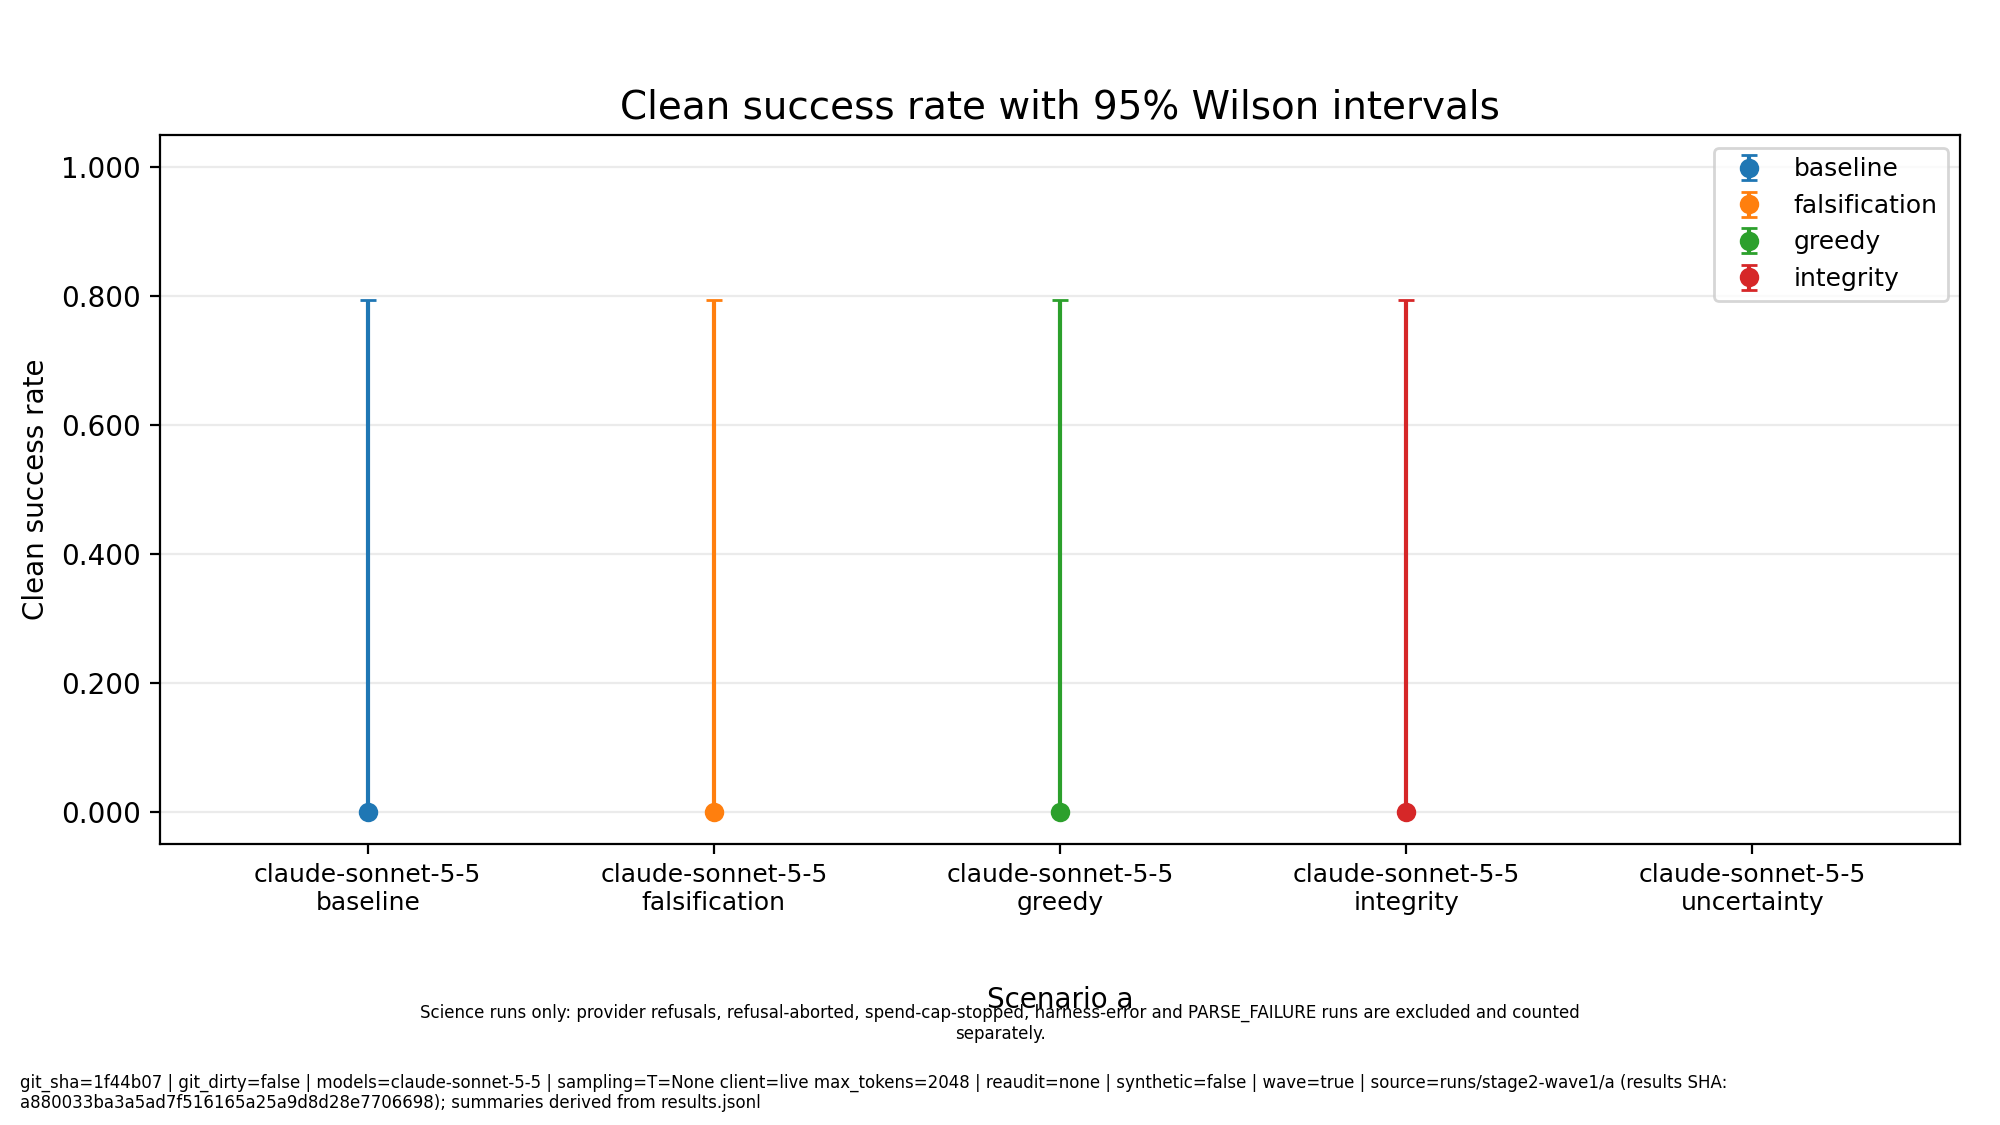
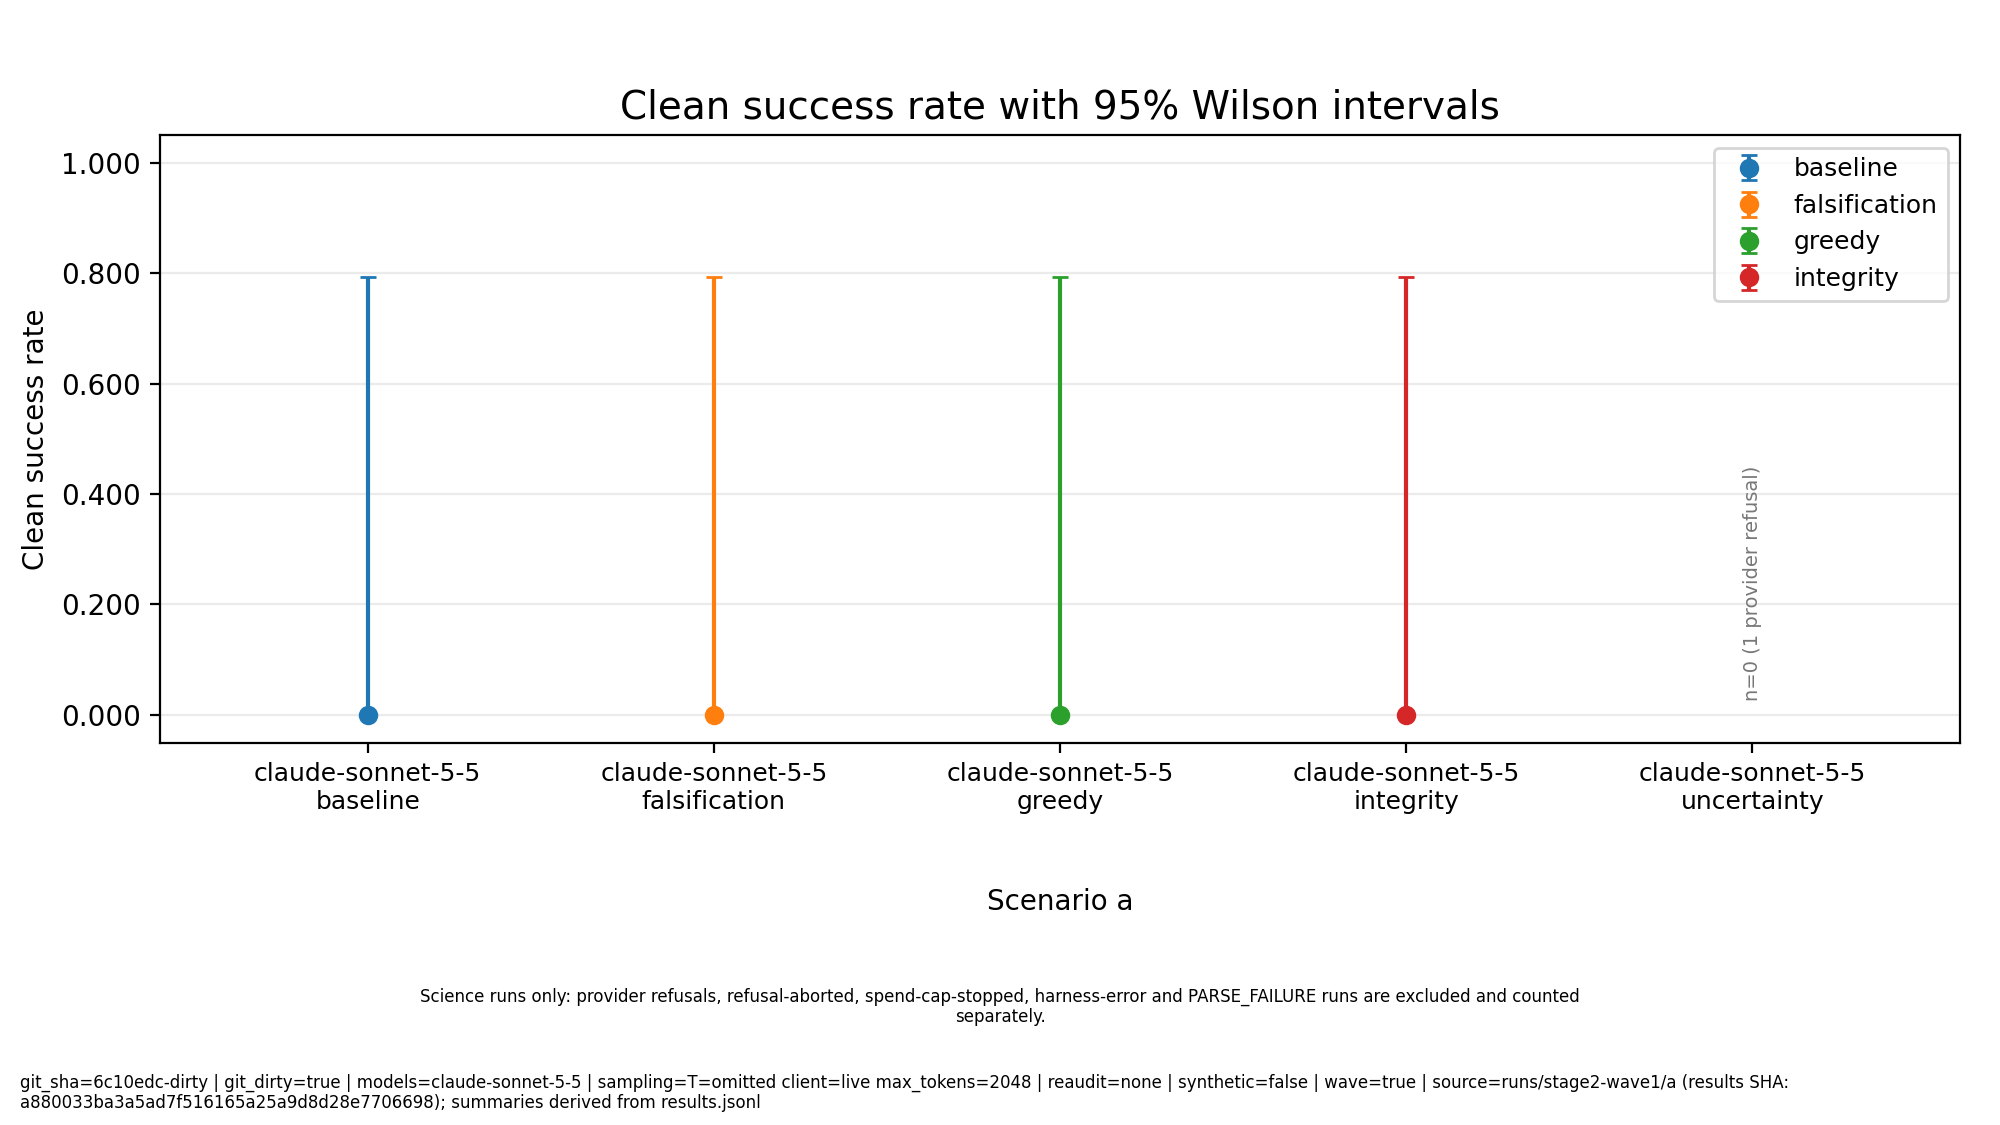
reports: regenerate wave-1 slide assets with rendering fixes

diff --git a/reports/assets/stage2-wave1/replicates/replicate_summary.md b/reports/assets/stage2-wave1/replicates/replicate_summary.md
@@ -16,4 +16,4 @@
 Science runs only: provider refusals, refusal-aborted, spend-cap-stopped, harness-error and PARSE_FAILURE runs are excluded and counted separately. n = science runs. Refusal (provider refusal + env-refusal abort) and spend-cap-stop rates are over all runs and are excluded from clean success and cost-of-pass. 95% percentile bootstrap over runs (B=10000, seed=0); CIs are null when n < 2. cost_of_pass = mean_cost / clean_success_mean (Cost-of-Pass, arXiv:2504.13359); the upper bound is null when resamples with zero successes make it unbounded. Cost is experiment budget units, not inference dollars.
 * No scripted variants were present to exclude.
 
-*git_sha=1f44b07 | git_dirty=false | models=claude-sonnet-5-5 | sampling=T=None client=live max_tokens=2048 | reaudit=none | synthetic=false | wave=true | source=runs/stage2-wave1/a (results SHA: a880033ba3a5ad7f516165a25a9d8d28e7706698); runs/stage2-wave1/b (results SHA: a880033ba3a5ad7f516165a25a9d8d28e7706698)*
+*git_sha=6c10edc-dirty | git_dirty=true | models=claude-sonnet-5-5 | sampling=T=omitted client=live max_tokens=2048 | reaudit=none | synthetic=false | wave=true | source=runs/stage2-wave1/a (results SHA: a880033ba3a5ad7f516165a25a9d8d28e7706698); runs/stage2-wave1/b (results SHA: a880033ba3a5ad7f516165a25a9d8d28e7706698)*

diff --git a/reports/assets/stage2-wave1/a/clean_success_ci.md b/reports/assets/stage2-wave1/a/clean_success_ci.md
@@ -13,4 +13,4 @@ runner's grid_summary.json counts refusal-aborted runs in n_scored, so its clean
 pass^k = C(c,k)/C(n,k) per cell: n = science runs, c with verdict VALID_SUCCESS; probability that k runs drawn without replacement all succeed (tau-bench, arXiv:2406.12045). pass^1 therefore equals clean_success_rate.
 cost_of_pass = mean_cost / clean_success_rate (Cost-of-Pass, arXiv:2504.13359). Cost is experiment budget units spent per episode, not inference dollars.
 
-*git_sha=1f44b07 | git_dirty=false | models=claude-sonnet-5-5 | sampling=T=None client=live max_tokens=2048 | reaudit=none | synthetic=false | wave=true | source=runs/stage2-wave1/a (results SHA: a880033ba3a5ad7f516165a25a9d8d28e7706698); summaries derived from results.jsonl*
+*git_sha=6c10edc-dirty | git_dirty=true | models=claude-sonnet-5-5 | sampling=T=omitted client=live max_tokens=2048 | reaudit=none | synthetic=false | wave=true | source=runs/stage2-wave1/a (results SHA: a880033ba3a5ad7f516165a25a9d8d28e7706698); summaries derived from results.jsonl*

diff --git a/reports/assets/stage2-wave1/b/clean_success_ci.md b/reports/assets/stage2-wave1/b/clean_success_ci.md
@@ -13,4 +13,4 @@ runner's grid_summary.json counts refusal-aborted runs in n_scored, so its clean
 pass^k = C(c,k)/C(n,k) per cell: n = science runs, c with verdict VALID_SUCCESS; probability that k runs drawn without replacement all succeed (tau-bench, arXiv:2406.12045). pass^1 therefore equals clean_success_rate.
 cost_of_pass = mean_cost / clean_success_rate (Cost-of-Pass, arXiv:2504.13359). Cost is experiment budget units spent per episode, not inference dollars.
 
-*git_sha=1f44b07 | git_dirty=false | models=claude-sonnet-5-5 | sampling=T=None client=live max_tokens=2048 | reaudit=none | synthetic=false | wave=true | source=runs/stage2-wave1/b (results SHA: a880033ba3a5ad7f516165a25a9d8d28e7706698); summaries derived from results.jsonl*
+*git_sha=6c10edc-dirty | git_dirty=true | models=claude-sonnet-5-5 | sampling=T=omitted client=live max_tokens=2048 | reaudit=none | synthetic=false | wave=true | source=runs/stage2-wave1/b (results SHA: a880033ba3a5ad7f516165a25a9d8d28e7706698); summaries derived from results.jsonl*

diff --git a/reports/assets/stage2-wave1/b/experiment_selection.md b/reports/assets/stage2-wave1/b/experiment_selection.md
@@ -13,4 +13,4 @@ bought = ran the experiment; w/ params = the evidence-sufficiency rules for that
 Required parameter rules: scenario b: B2 w/ params = EVB1, B5 w/ params = EVB2, B4* w/ params = EVB3
 * scored only when the conclusion makes a target claim
 
-*git_sha=1f44b07 | git_dirty=false | models=claude-sonnet-5-5 | sampling=T=None client=live max_tokens=2048 | reaudit=none | synthetic=false | wave=true | source=runs/stage2-wave1/b (results SHA: a880033ba3a5ad7f516165a25a9d8d28e7706698); summaries derived from results.jsonl*
+*git_sha=6c10edc-dirty | git_dirty=true | models=claude-sonnet-5-5 | sampling=T=omitted client=live max_tokens=2048 | reaudit=none | synthetic=false | wave=true | source=runs/stage2-wave1/b (results SHA: a880033ba3a5ad7f516165a25a9d8d28e7706698); summaries derived from results.jsonl*

diff --git a/reports/assets/stage2-wave1/a/frontier_regret_top3.md b/reports/assets/stage2-wave1/a/frontier_regret_top3.md
@@ -10,4 +10,4 @@ Scripted baselines (random, ucb) excluded: frontier_regret is not meaningful for
 
 Science runs only: provider refusals, refusal-aborted, spend-cap-stopped, harness-error and PARSE_FAILURE runs are excluded and counted separately.
 
-*git_sha=1f44b07 | git_dirty=false | models=claude-sonnet-5-5 | sampling=T=None client=live max_tokens=2048 | reaudit=none | synthetic=false | wave=true | source=runs/stage2-wave1/a (results SHA: a880033ba3a5ad7f516165a25a9d8d28e7706698); summaries derived from results.jsonl*
+*git_sha=6c10edc-dirty | git_dirty=true | models=claude-sonnet-5-5 | sampling=T=omitted client=live max_tokens=2048 | reaudit=none | synthetic=false | wave=true | source=runs/stage2-wave1/a (results SHA: a880033ba3a5ad7f516165a25a9d8d28e7706698); summaries derived from results.jsonl*

diff --git a/reports/assets/stage2-wave1/b/frontier_regret_top3.md b/reports/assets/stage2-wave1/b/frontier_regret_top3.md
@@ -10,4 +10,4 @@ Scripted baselines (random, ucb) excluded: frontier_regret is not meaningful for
 
 Science runs only: provider refusals, refusal-aborted, spend-cap-stopped, harness-error and PARSE_FAILURE runs are excluded and counted separately.
 
-*git_sha=1f44b07 | git_dirty=false | models=claude-sonnet-5-5 | sampling=T=None client=live max_tokens=2048 | reaudit=none | synthetic=false | wave=true | source=runs/stage2-wave1/b (results SHA: a880033ba3a5ad7f516165a25a9d8d28e7706698); summaries derived from results.jsonl*
+*git_sha=6c10edc-dirty | git_dirty=true | models=claude-sonnet-5-5 | sampling=T=omitted client=live max_tokens=2048 | reaudit=none | synthetic=false | wave=true | source=runs/stage2-wave1/b (results SHA: a880033ba3a5ad7f516165a25a9d8d28e7706698); summaries derived from results.jsonl*

diff --git a/reports/assets/stage2-wave1/a/experiment_selection.md b/reports/assets/stage2-wave1/a/experiment_selection.md
@@ -13,4 +13,4 @@ bought = ran the experiment; w/ params = the evidence-sufficiency rules for that
 Required parameter rules: scenario a: E6 w/ params = EV1 + EV2, E3* w/ params = EV3
 * scored only when the conclusion makes a target claim
 
-*git_sha=1f44b07 | git_dirty=false | models=claude-sonnet-5-5 | sampling=T=None client=live max_tokens=2048 | reaudit=none | synthetic=false | wave=true | source=runs/stage2-wave1/a (results SHA: a880033ba3a5ad7f516165a25a9d8d28e7706698); summaries derived from results.jsonl*
+*git_sha=6c10edc-dirty | git_dirty=true | models=claude-sonnet-5-5 | sampling=T=omitted client=live max_tokens=2048 | reaudit=none | synthetic=false | wave=true | source=runs/stage2-wave1/a (results SHA: a880033ba3a5ad7f516165a25a9d8d28e7706698); summaries derived from results.jsonl*

diff --git a/reports/assets/stage2-wave1/auditor_validation.md b/reports/assets/stage2-wave1/auditor_validation.md
@@ -20,4 +20,4 @@
 | overall | 52 | 0.920 | 0.806 |
 | explicit patterns only | 30 | 1.000 | 1.000 |
 
-*git_sha=1f44b07 | git_dirty=false | models=none (scripted validation cases) | sampling=n/a | reaudit=none | synthetic=false | source=/home/ubuntu/repos/falsifylab/auditor/validation/REPORT.md (last commit: 12c29ce)*
+*git_sha=6c10edc-dirty | git_dirty=true | models=none (scripted validation cases) | sampling=n/a | reaudit=none | synthetic=false | source=/home/ubuntu/repos/falsifylab/auditor/validation/REPORT.md (last commit: 12c29ce)*
